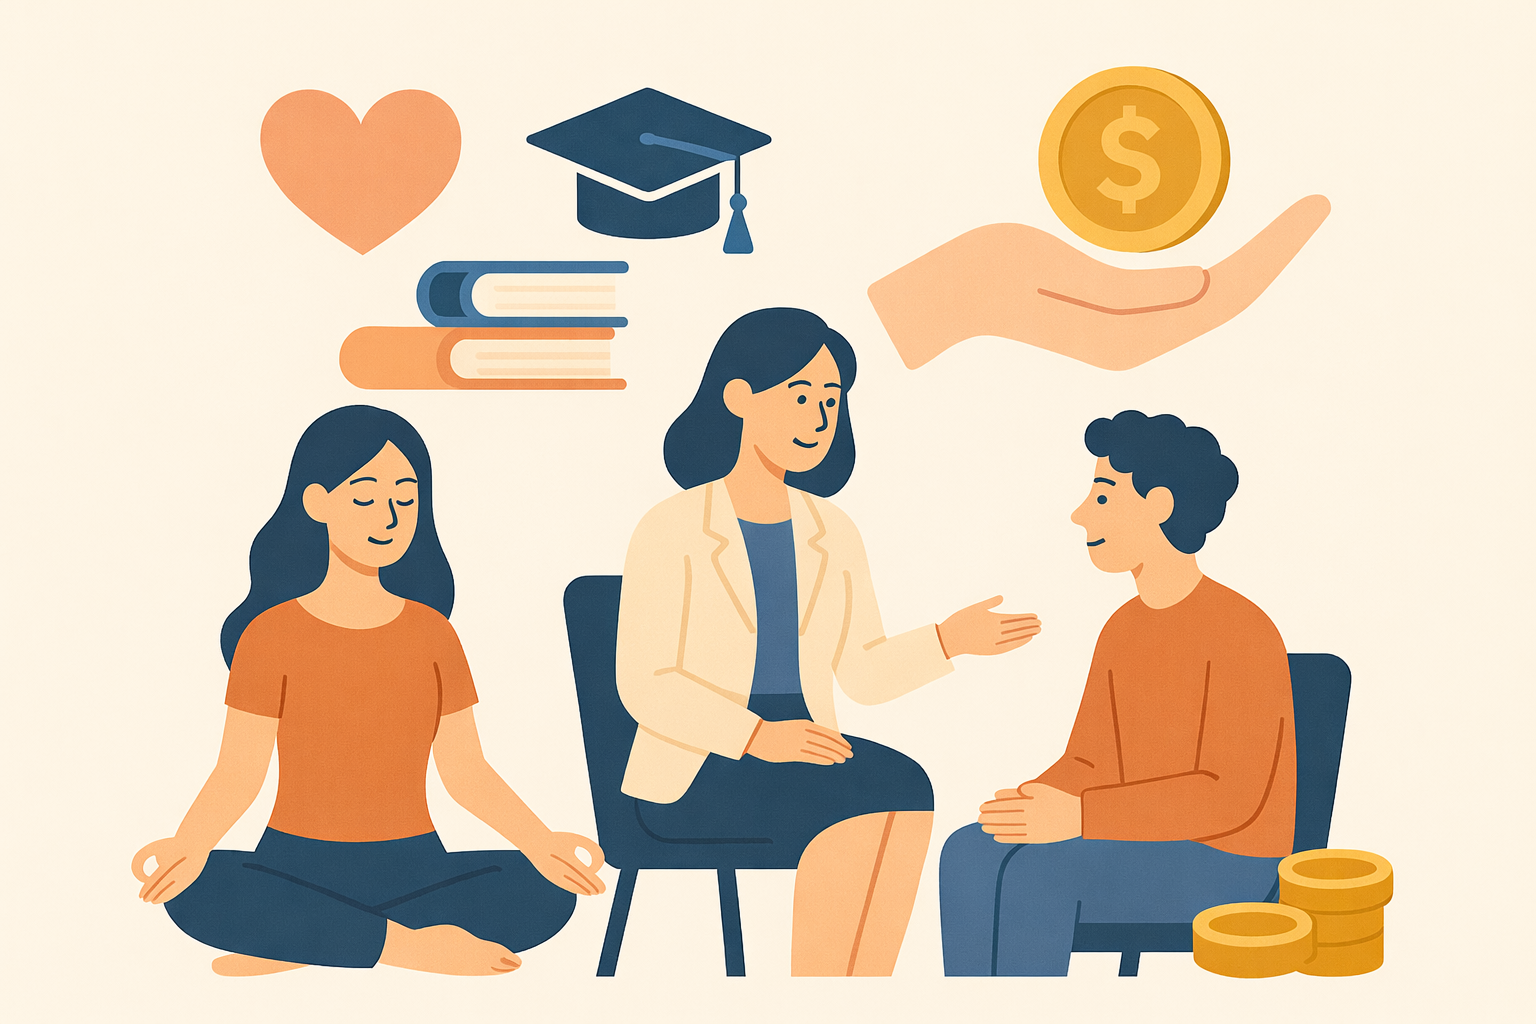
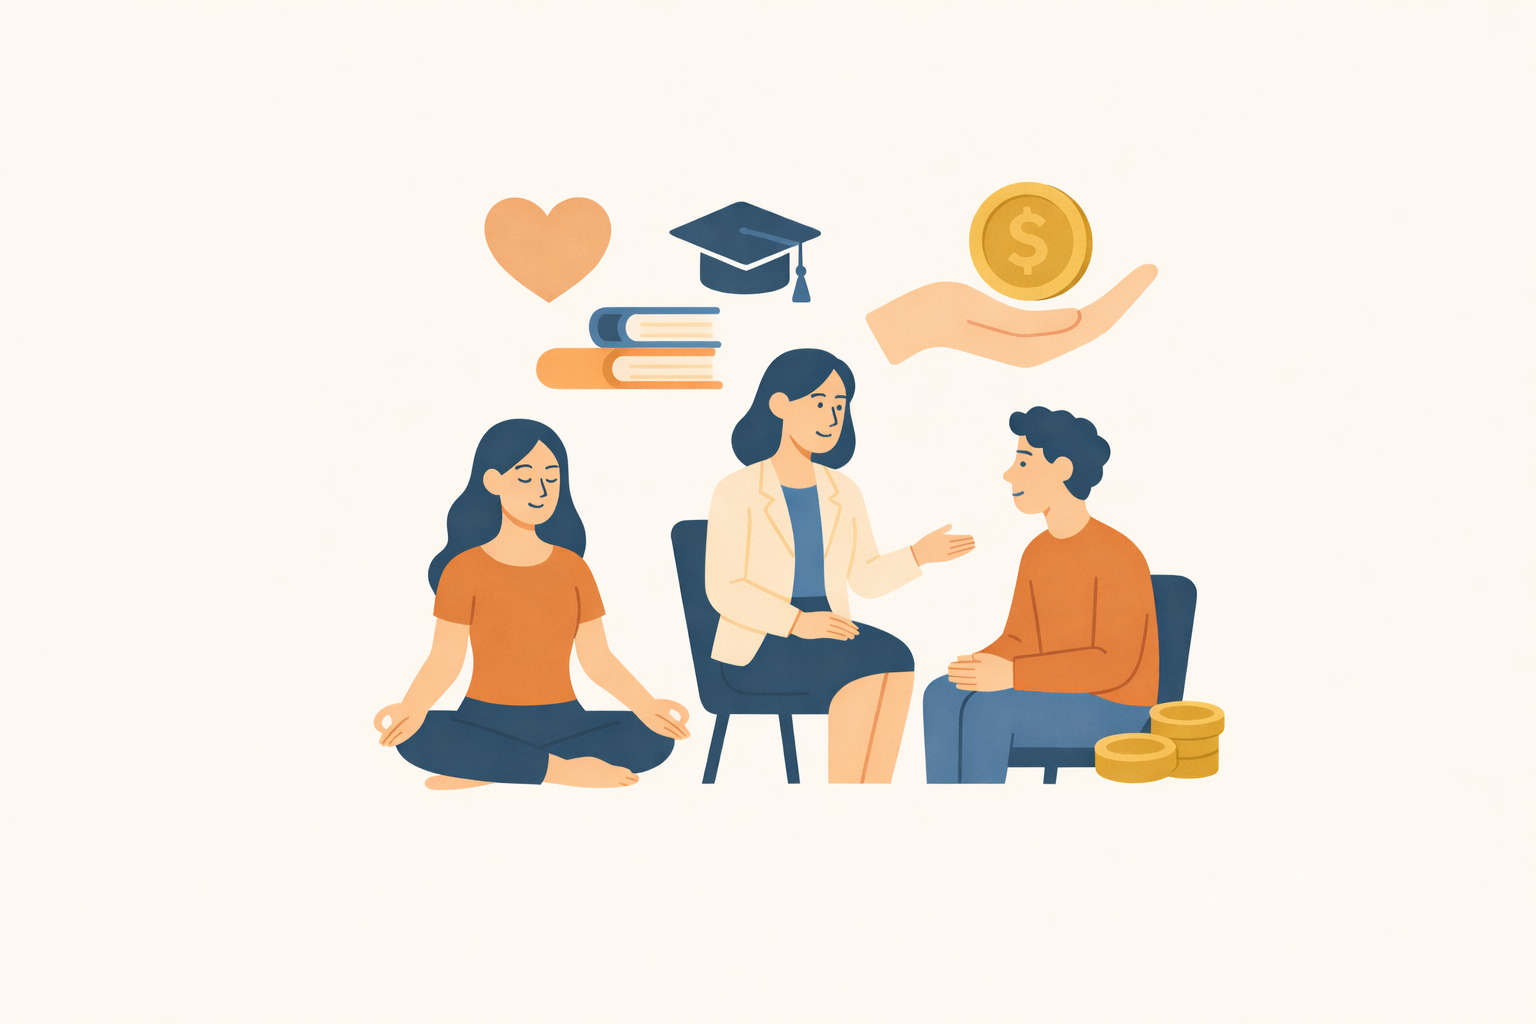
fixed AuthImage height

diff --git a/src/components/SignupForm.tsx b/src/components/SignupForm.tsx
@@ -409,7 +409,7 @@ export default function SignupForm() {
   const StepIcon = stepInfo.icon;
 
   return (
-    <div className="login-form flex justify-between items-start gap-[20px] [@media(max-width:959px)]:mt-0 [@media(min-width:960px)]:mt-[20px] rounded-lg flex-1 [@media(max-width:959px)]:items-center">
+    <div className="login-form flex justify-between items-stretch gap-[20px] [@media(max-width:959px)]:mt-0 [@media(min-width:960px)]:mt-[20px] mb-[80px] [@media(max-width:959px)]:mb-[60px] rounded-lg [@media(max-width:959px)]:flex-1 [@media(max-width:959px)]:items-center">
       <div className="flex-1 rounded-lg border border-gray-200 shadow-[0_2px_8px_rgba(0,0,0,0.08)] flex items-center justify-center [@media(max-width:959px)]:min-h-[400px]">
         <div className="rounded-lg w-full max-w-[500px] px-[24px] py-[32px] [@media(min-width:960px)]:px-[clamp(1.5rem,4vw,3rem)] [@media(min-width:960px)]:py-[clamp(1.5rem,4vw,3rem)]">
 

diff --git a/src/components/LoginForm.tsx b/src/components/LoginForm.tsx
@@ -92,7 +92,7 @@ export default function LoginForm() {
   };
 
   return (
-    <div className="login-form flex justify-between gap-[20px] mt-[20px] [@media(max-width:959px)]:mt-[16px] rounded-lg flex-1">
+    <div className="login-form flex justify-between items-stretch gap-[20px] mt-[20px] mb-[80px] [@media(max-width:959px)]:mt-[16px] [@media(max-width:959px)]:mb-[60px] rounded-lg [@media(max-width:959px)]:flex-1 [@media(max-width:959px)]:items-center">
       <div className="flex-1 rounded-lg border border-gray-200 shadow-[0_2px_8px_rgba(0,0,0,0.08)] flex items-center justify-center [@media(max-width:959px)]:min-h-[400px]">
         <div className="rounded-lg w-full max-w-[500px] px-[24px] py-[32px] [@media(min-width:960px)]:px-[clamp(1.5rem,4vw,3rem)] [@media(min-width:960px)]:py-[clamp(1.5rem,4vw,3rem)]">
           <h2 className="text-[clamp(28px,5vw,30px)] font-bold text-logo-heading">

diff --git a/src/components/AuthImage.tsx b/src/components/AuthImage.tsx
@@ -9,7 +9,7 @@ export default function AuthImage({ altTextKey = "login" }: AuthImageProps) {
   const { t } = useTranslation("common");
 
   return (
-    <div className="[@media(max-width:959px)]:hidden [@media(min-width:960px)]:flex flex-[1.5] overflow-hidden h-[600px] animate-float-1 rounded-lg border border-gray-200 shadow-[0_2px_8px_rgba(0,0,0,0.08)] items-center justify-center">
+    <div className="[@media(max-width:959px)]:hidden [@media(min-width:960px)]:flex flex-[1.5] overflow-hidden animate-float-1 rounded-lg border border-gray-200 shadow-[0_2px_8px_rgba(0,0,0,0.08)] items-center justify-center">
       <img
         src="./images/login_image.png"
         alt={t(altTextKey) + " Image"}

diff --git a/src/pages/Signup.tsx b/src/pages/Signup.tsx
@@ -5,7 +5,7 @@ import useScrollToTop from "../hooks/useScrollToTop";
 export default function Signup() {
   useScrollToTop();
   return (
-    <div className="signup-page max-w-[1350px] mx-auto px-[25px] flex flex-col min-h-[calc(100svh-76px)] [@media(min-width:960px)]:mb-[70px]">
+    <div className="signup-page max-w-[1350px] mx-auto px-[25px] flex flex-col [@media(max-width:959px)]:min-h-[calc(100svh-76px)]">
       <AuthNavbar />
 
       <SignupForm />

diff --git a/src/pages/Login.tsx b/src/pages/Login.tsx
@@ -5,7 +5,7 @@ import useScrollToTop from "../hooks/useScrollToTop";
 export default function Login() {
   useScrollToTop();
   return (
-    <div className="login-page max-w-[1350px] mx-auto px-[25px] min-h-[calc(100svh-76px)] flex flex-col">
+    <div className="login-page max-w-[1350px] mx-auto px-[25px] [@media(max-width:959px)]:min-h-[calc(100svh-76px)] flex flex-col">
       <AuthNavbar />
 
       <LoginForm />

diff --git a/src/index.css b/src/index.css
@@ -13,7 +13,7 @@
 
 html {
   overflow-x: hidden;
-  overflow-y: scroll; /* Always show scrollbar to prevent layout shift */
+  overflow-y: auto;
   background-color: white;
   height: 100%;
 }
